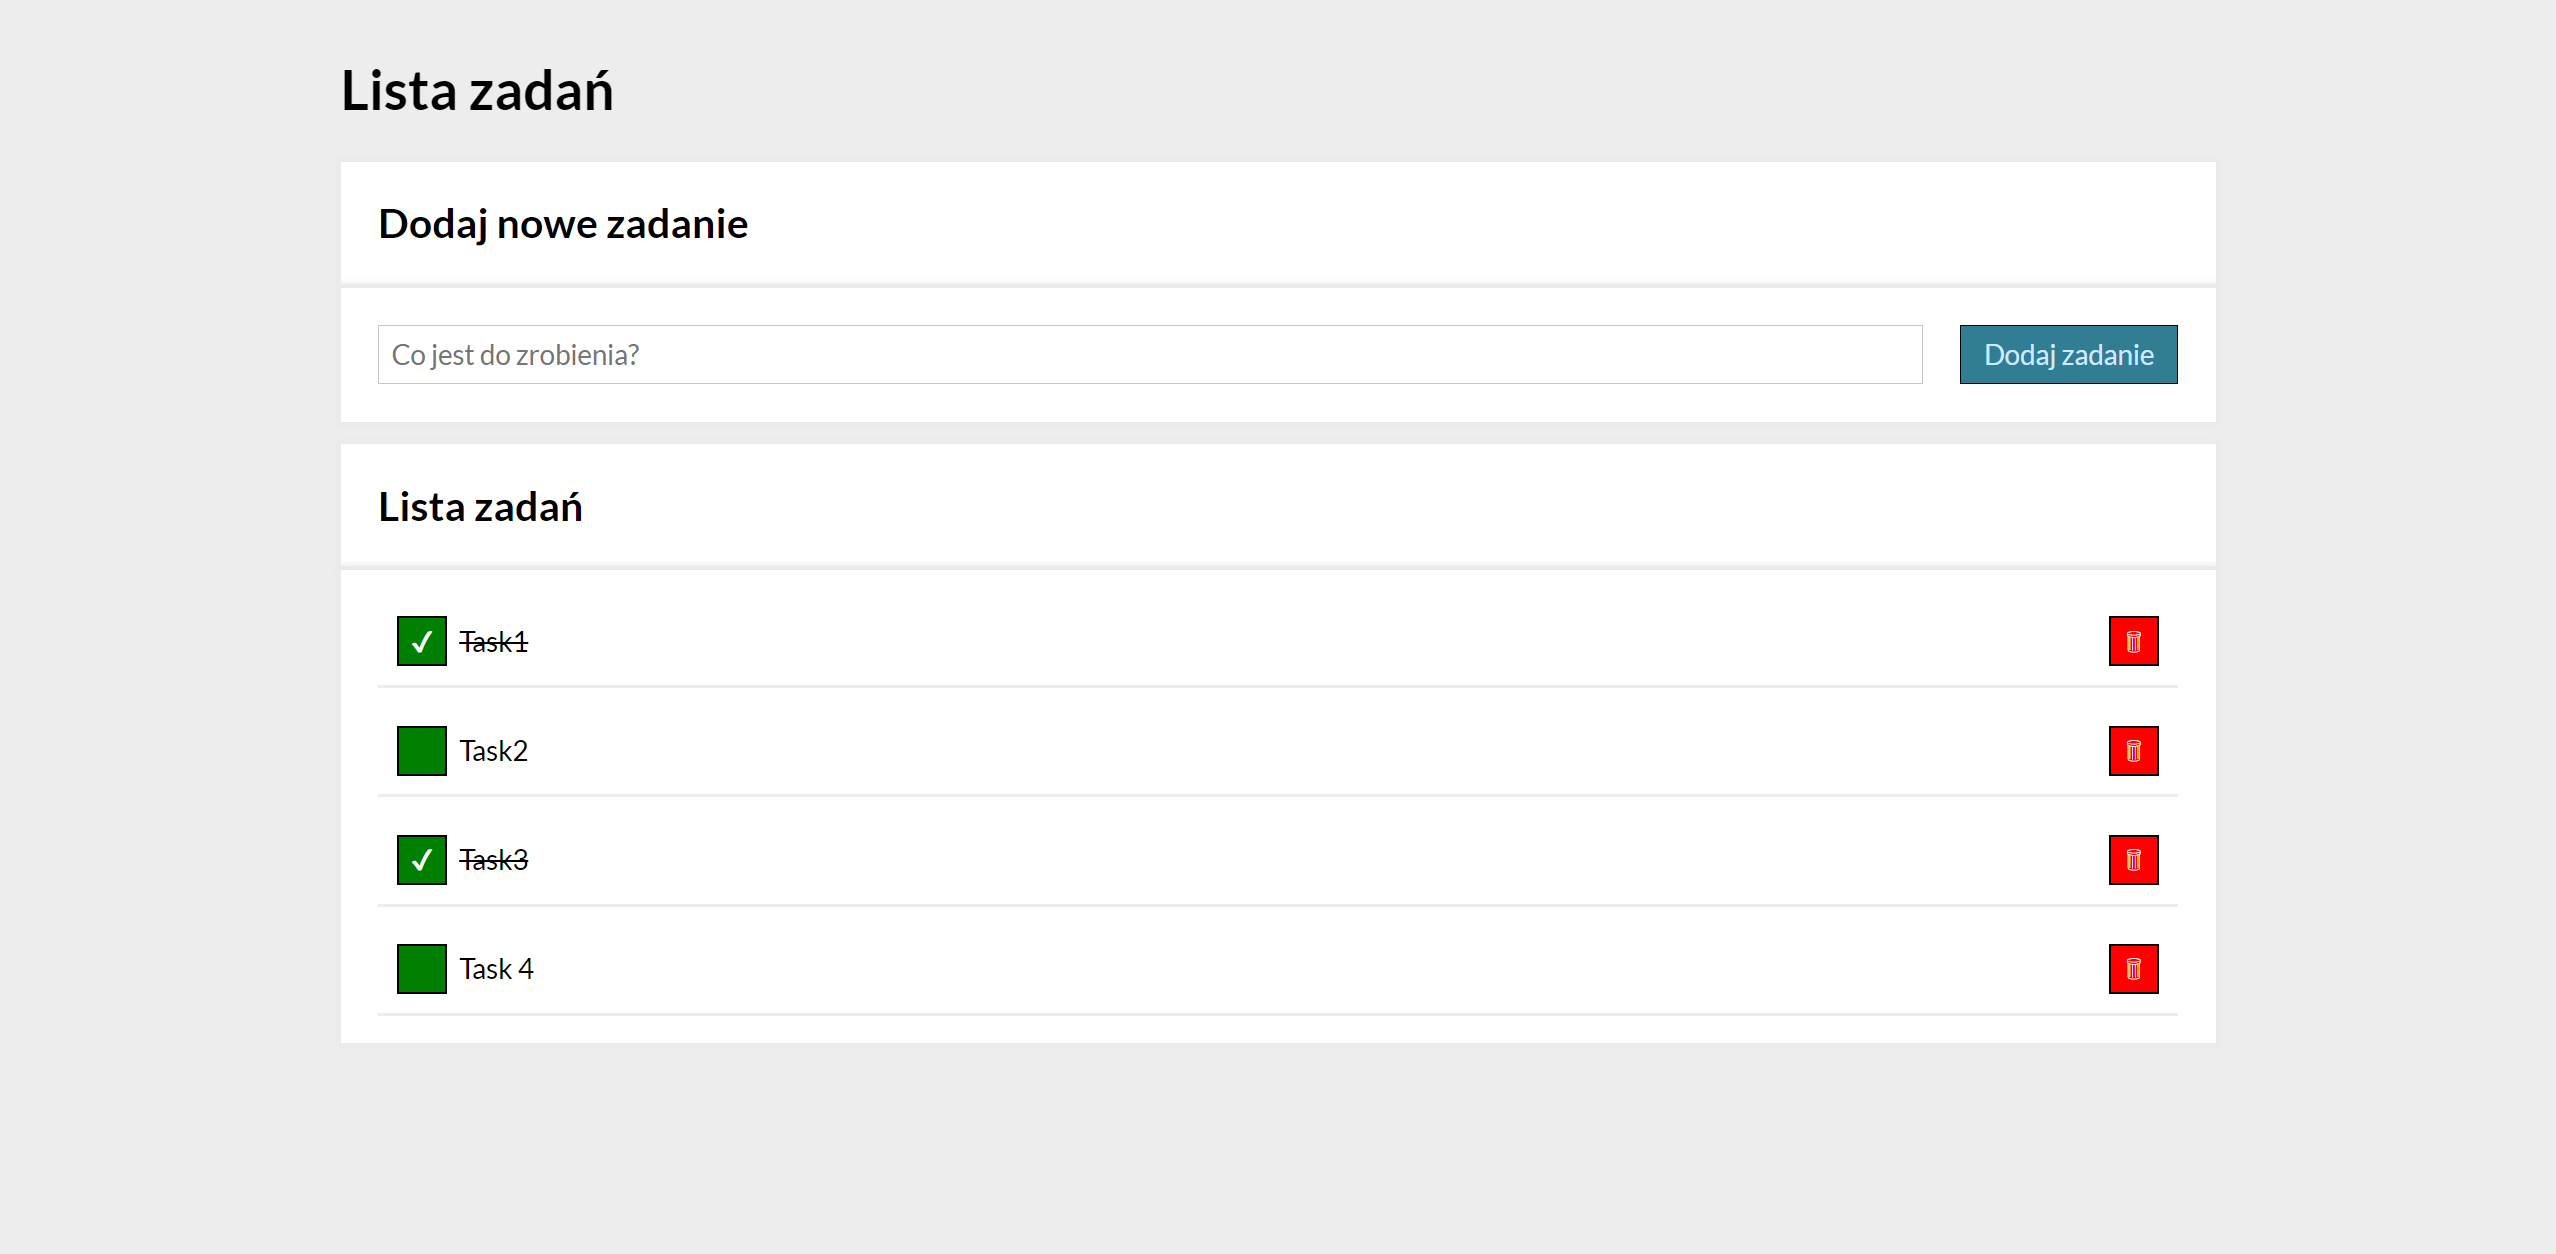
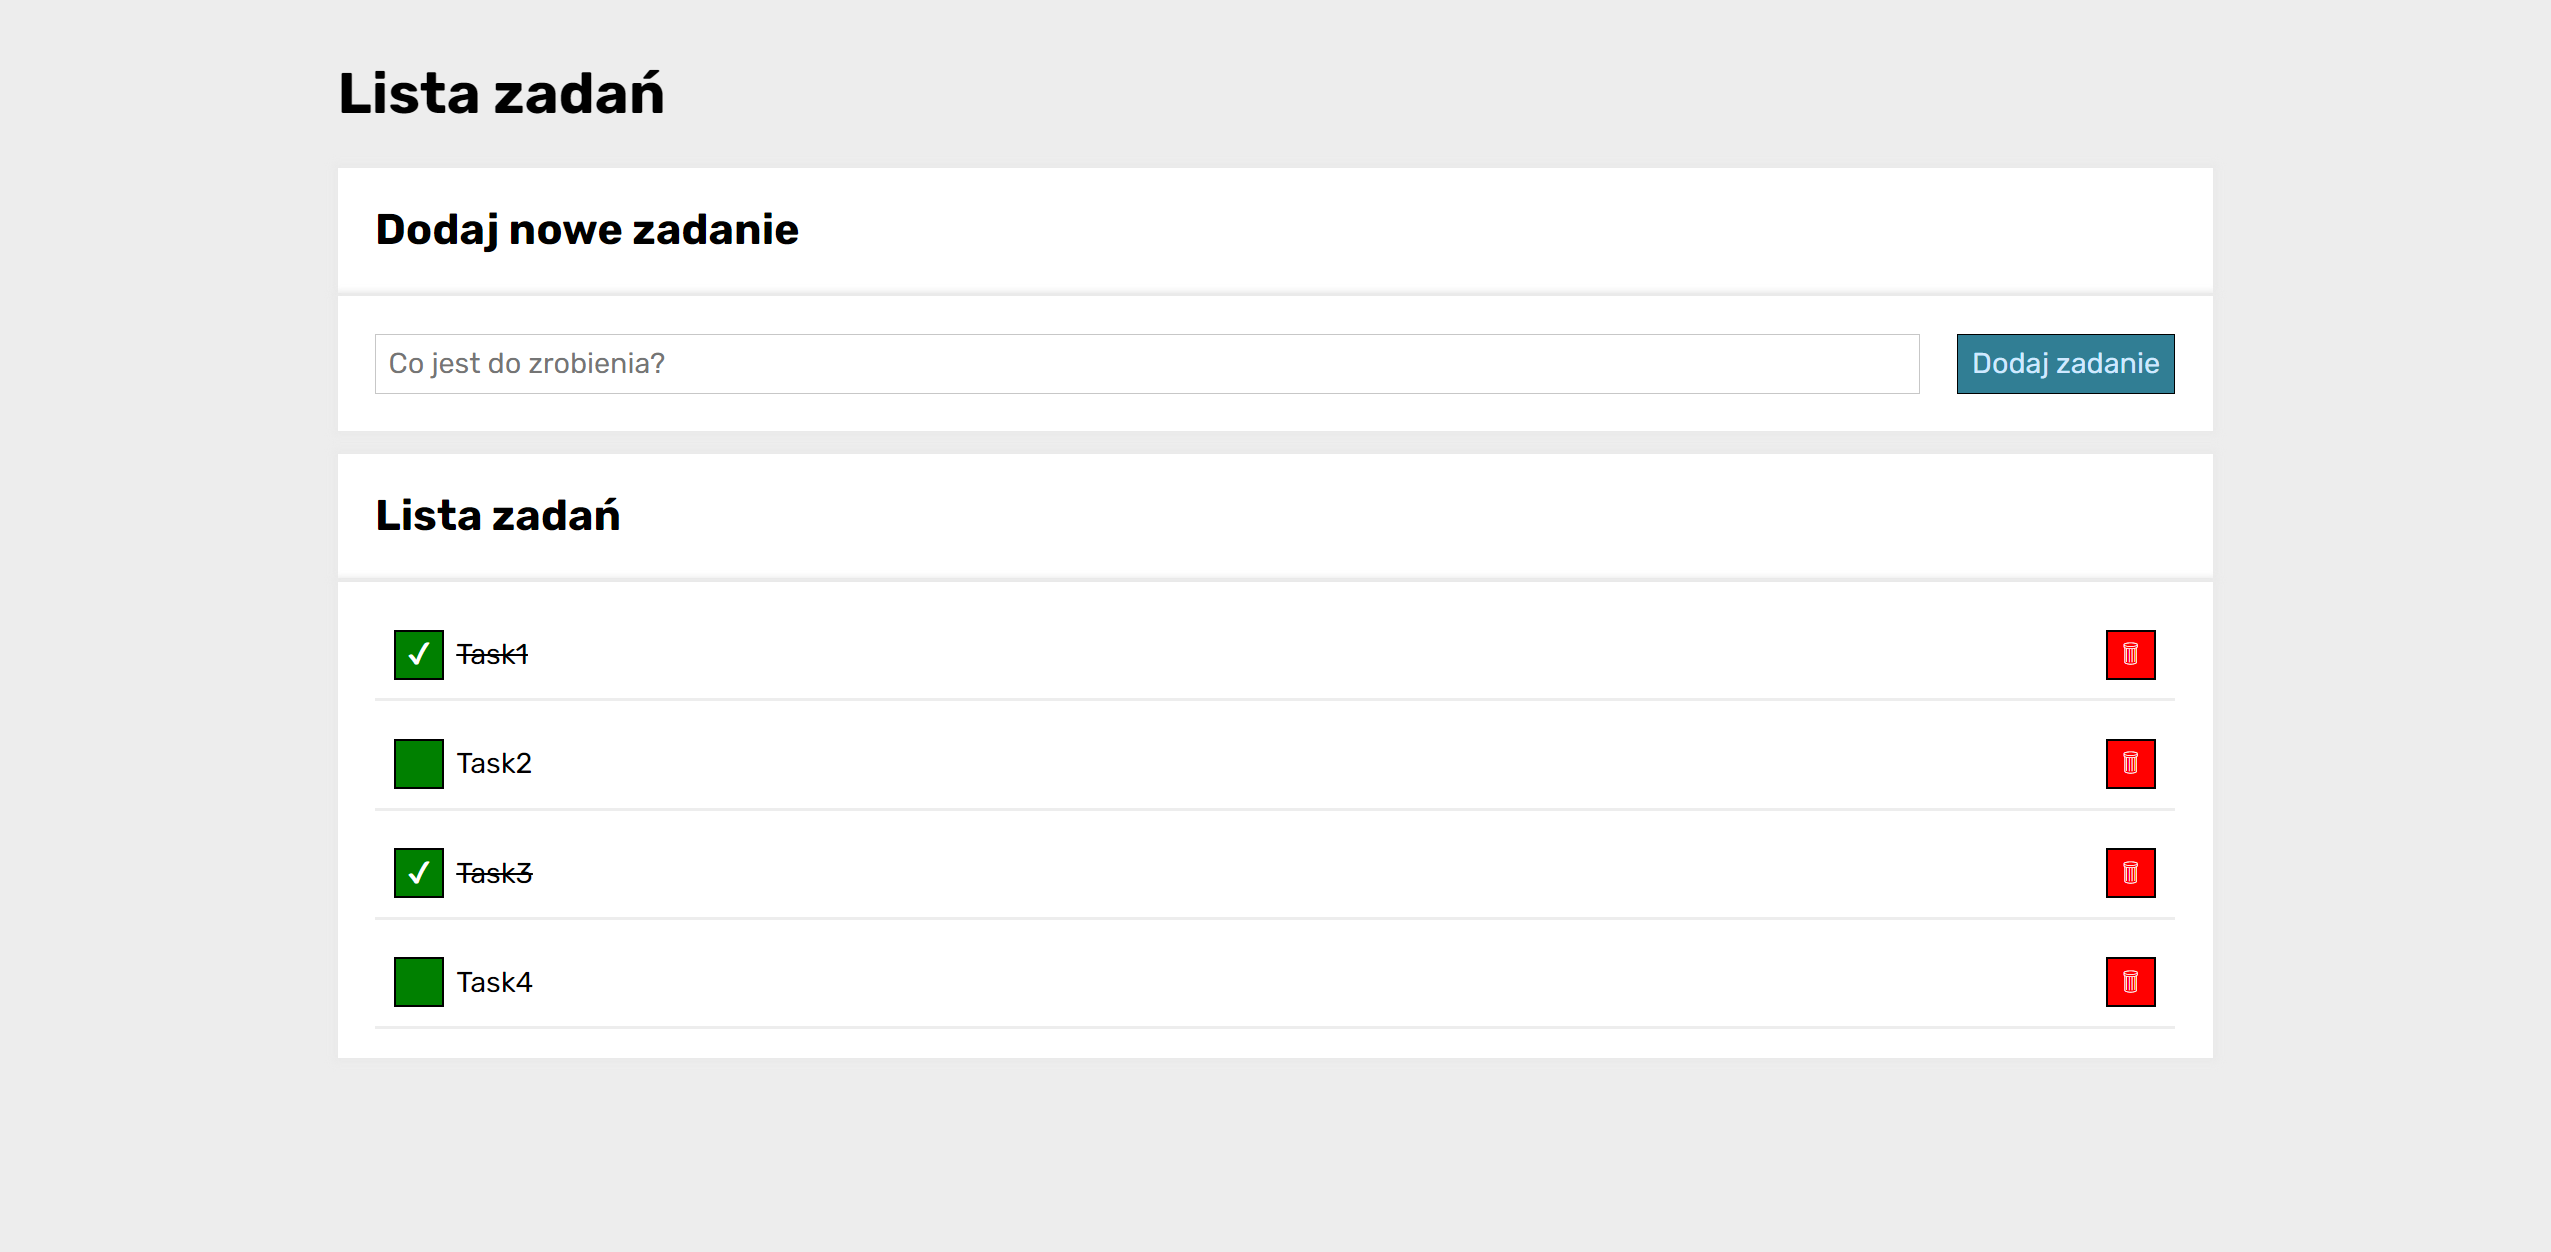
Font change

diff --git a/index.html b/index.html
@@ -15,11 +15,7 @@
     <link href="css/container.css" rel="stylesheet">
     <link rel="preconnect" href="https://fonts.googleapis.com">
     <link rel="preconnect" href="https://fonts.gstatic.com" crossorigin>
-    <link href="https://fonts.googleapis.com/css2?family=Lato:ital,wght@0,400;0,700;1,400;1,700&display=swap"
-        rel="stylesheet">
-    <style>
-        @import url('https://fonts.googleapis.com/css2?family=Lato:ital,wght@0,400;0,700;1,400;1,700&display=swap');
-    </style>
+    <link href="https://fonts.googleapis.com/css2?family=Rubik:wght@400;700&display=swap" rel="stylesheet">
     <script defer src="js/script.js"></script>
 </head>
 

diff --git a/css/style.css b/css/style.css
@@ -8,10 +8,10 @@ html {
 
 .body {
     display: flex;
-    font-family: 'Lato', sans-serif;
+    font-family: 'Rubik', sans-serif;
     justify-content: center;
     margin: 20px;
-    font-size: 22px;
+    font-size: 23px;
     background-color: rgb(237, 237, 237);
 }
 
